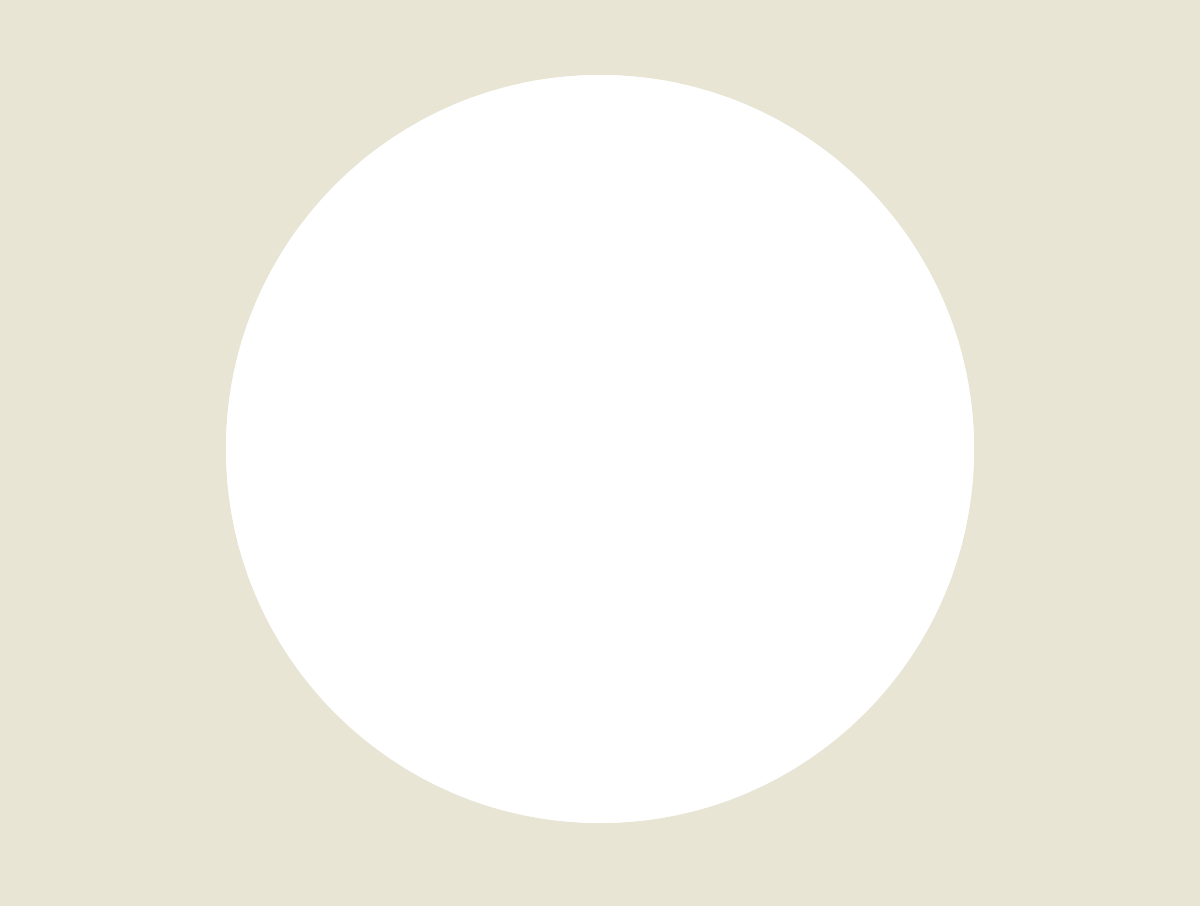
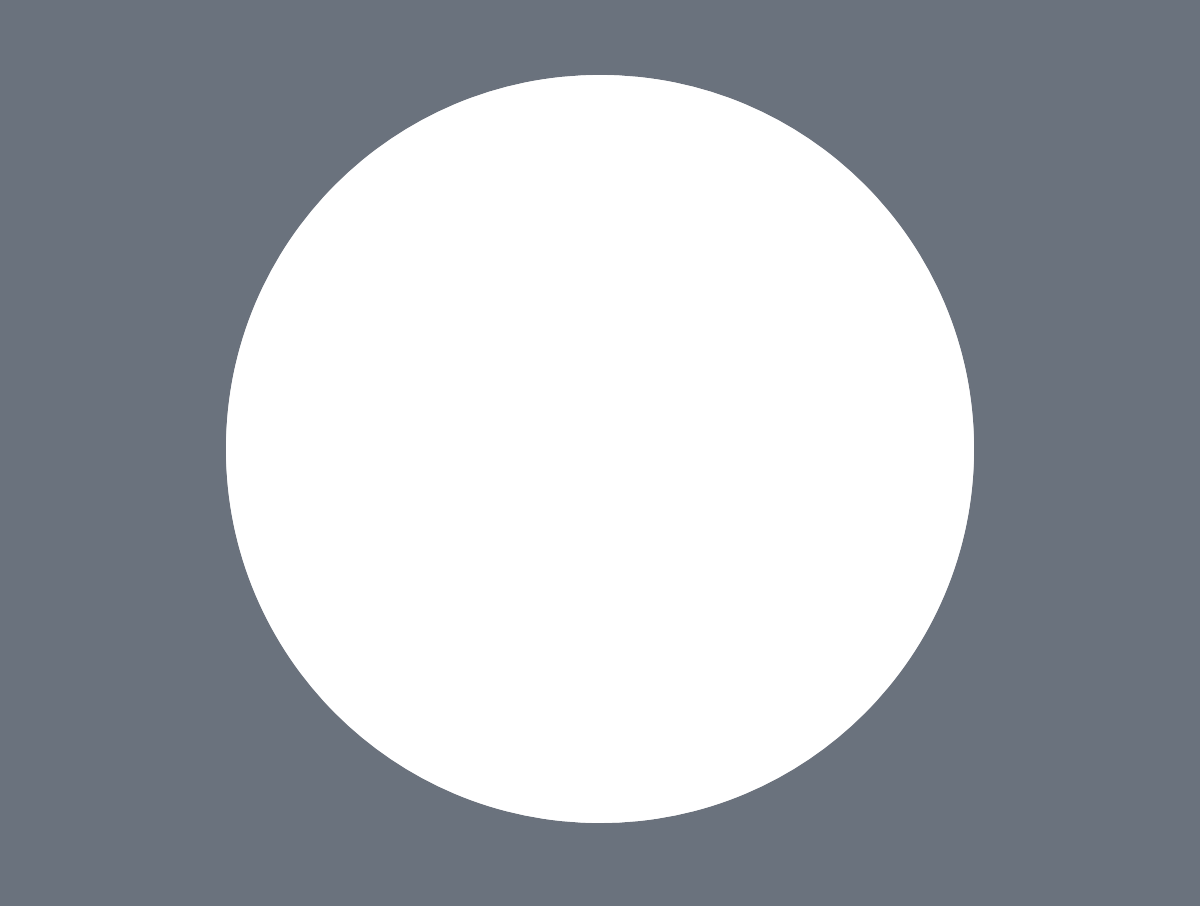
asside

diff --git a/zen-garden/style.css b/zen-garden/style.css
@@ -19,21 +19,22 @@ html {
   background-size: cover;
   background-position: top;
   background-attachment: fixed;
+  background-color: #6A727D;
 	}
 
 body {
+  border-left: 25px solid #E06C75;
+  border-right: 25px solid #E06C75;
   background: url(mask.png) no-repeat center center;
   background-size: 100%;
   background-position: top;
   max-width: 100%;
   font-family: monospace;
   font-size: 20px;
-  /*background-color: #282C34;*/
   color: #828997;
 	}
 
 header {
-  /*position: fixed;*/
 }
 
 p {
@@ -45,7 +46,6 @@ h3 {
 a {
   text-decoration: none;
   color: #E06C75;
-  /*position: relative;*/
 }
 
 a:hover {
@@ -69,7 +69,7 @@ header {
 }
 
 .intro {
-  /*position: relative;*/
+  position: relative;
 	}
 
 .intro h1 {
@@ -78,19 +78,18 @@ header {
   text-align: left;
   max-width: 330px;
   padding: 30px;
-  /*right: 600px;*/
+  position: relative;
+  left: -20px;
+  top: 30px;
 }
 
 .intro h2 {
   background-color: #282C34;
-  text-align: left;
-  /*max-width: 330px;*/
   padding: 30px;
-  /*position: absolute;
-  top: -700px;
-  left: -200px;*/
-  /*right: 600px;*/
-  /*right: 400px;*/
+  text-align: left;
+  position: absolute;
+  top: 390px;
+  left: 10px;
 }
 
 .summary {
@@ -103,16 +102,14 @@ header {
   color: black;
 }
 
-#zen-intro {
-
-}
-
 .preamble {
+  background-color: #6A727D;
+  margin-top: 550px;
 	}
 
 .main {
   /*padding: 30px 0;*/
-
+background-color: #6A727D;
 }
 
 .participation {
@@ -140,7 +137,10 @@ footer a:link, footer a:visited {
 
 .sidebar {
   position: absolute;
-  border: 10px solid #E06C75;
+  top: 100px;
+  left: 800px;
+  max-width: 420px;
+  border: 10px solid #282C34;
 	}
 
 .sidebar .wrapper {
@@ -159,5 +159,33 @@ footer a:link, footer a:visited {
   list-style: none;
 	}
 
+.design-selection li {
+  font-size: 26px;
+}
+
+.design-selection h3 {
+  font-size: 40px;
+  background: #E06C75;
+  color: #282C34;
+}
+
 .sidebar li {
-	}
+  border-top: 8px solid black;
+  background: rgba(40, 44, 52, 0.6);
+}
+
+.sidebar a {
+  color: #E06C75;
+  text-shadow: -1px 0 black, 0 1px black, 1px 0 black, 0 -1px black;
+}
+
+.archives, .resources {
+  background: #E06C75;
+  color: #282C34;
+}
+
+.sidebar .designer-name {
+  color: #ABB2BF;
+  display: block;
+  /*text-shadow: -1px 0 black, 0 1px black, 1px 0 black, 0 -1px black;*/
+}
